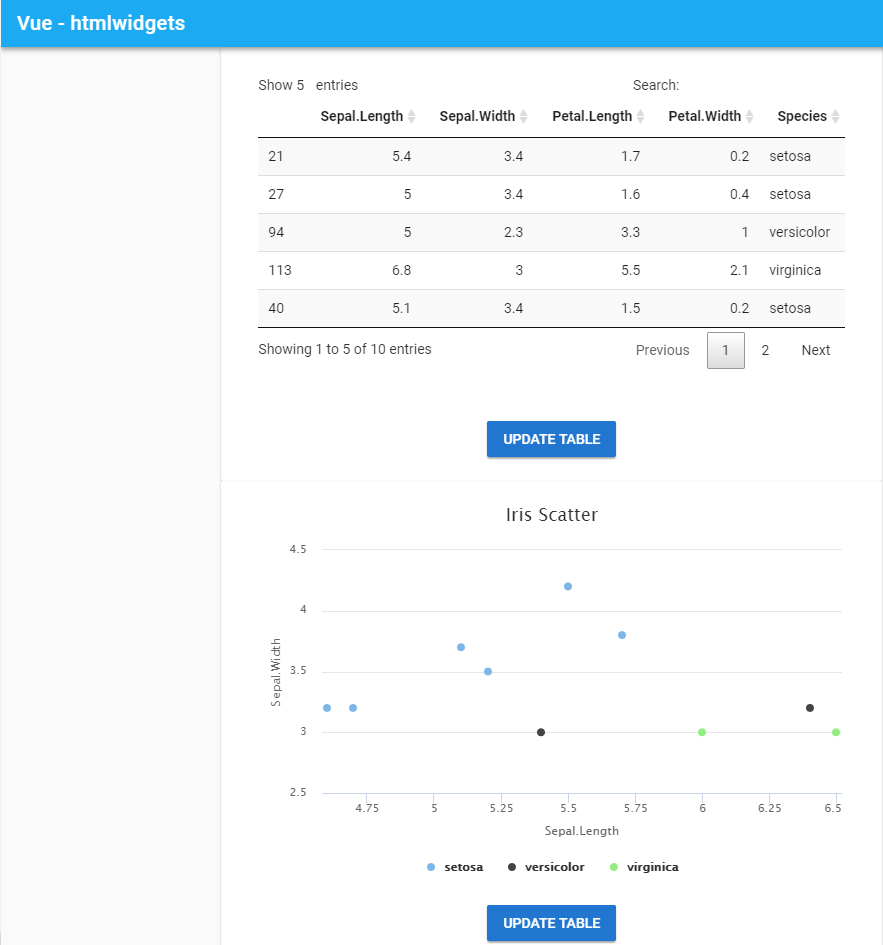
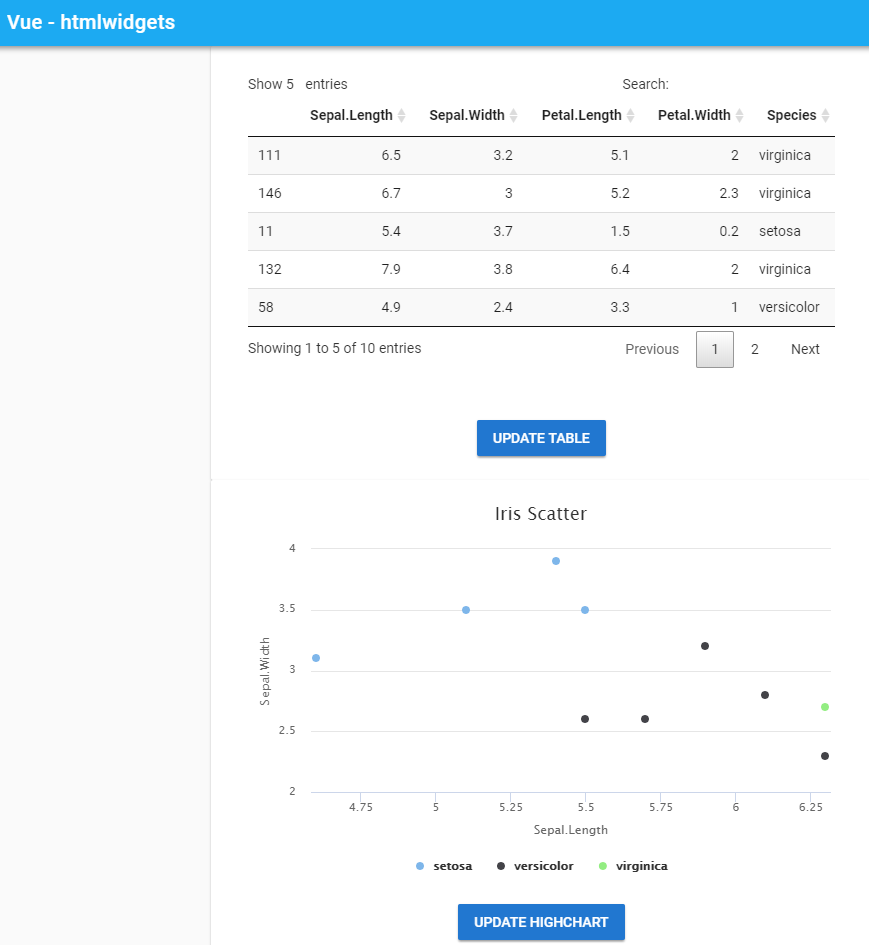
up vue-native, screenshots

diff --git a/vue-native/src/components/DataTable.vue b/vue-native/src/components/DataTable.vue
@@ -1,47 +1,39 @@
 <template>
   <v-data-table
     :headers="headers"
-    :items="desserts"
-    hide-actions
+    :items="visData"
     class="elevation-1"
   >
     <template slot="items" slot-scope="props">
-      <td>{{ props.item.name }}</td>
-      <td class="text-xs-right">{{ props.item.calories }}</td>
-      <td class="text-xs-right">{{ props.item.fat }}</td>
-      <td class="text-xs-right">{{ props.item.carbs }}</td>
-      <td class="text-xs-right">{{ props.item.protein }}</td>
-      <td class="text-xs-right">{{ props.item.iron }}</td>
       <td class="text-xs-right">{{ props.item.SepalLength }}</td>
+      <td class="text-xs-right">{{ props.item.SepalWidth }}</td>
+      <td class="text-xs-right">{{ props.item.PetalLength }}</td>
+      <td class="text-xs-right">{{ props.item.PetalWidth }}</td>
+      <td class="text-xs-right">{{ props.item.Species }}</td>
+    </template>
+    <template slot="pageText" slot-scope="props">
+        Lignes {{ props.pageStart }} - {{ props.pageStop }} of {{ props.itemsLength }}
     </template>
   </v-data-table>
 </template>
 
 <script>
-  export default {
+export default {
     data () {
-      return {
-        headers: [
-          { text: 'Dessert', value: 'name'},
-          { text: 'Calories', value: 'calories' },
-          { text: 'Fat (g)', value: 'fat' },
-          { text: 'Carbs (g)', value: 'carbs' },
-          { text: 'Protein (g)', value: 'protein' },
-          { text: 'Iron (%)', value: 'iron' },
-          { text: 'Sepal Length', value: 'SepalLength'}
-        ],
-        desserts: [
-          {
-            name: 'Frozen Yogurt',
-            calories: 159,
-            fat: 6.0,
-            carbs: 24,
-            protein: 4.0,
-            iron: '1%',
-            SepalLength: 7.4
-          }
-        ]
-      }
+        return {
+            headers: [
+                { text: 'Sepal Length', value: 'SepalLength'},
+                { text: 'Sepal Width', value: 'SepalWidth'},
+                { text: 'Petal Length', value: 'PetalLength'},
+                { text: 'Petal Width', value: 'PetalWidth'},
+                { text: 'Species', value: 'Species'}
+            ]
+        }
+    },
+    computed: {
+        visData() {
+            return this.$store.getters['visData']
+        }
     }
-  }
+}
 </script>

diff --git a/vue-native/src/App.vue b/vue-native/src/App.vue
@@ -5,42 +5,74 @@
           Vue - native
       </v-toolbar-title>
     </v-toolbar>
-    <v-content>
-      <p>{{ visData }}</p>
-      <v-btn @click="vis">update</v-btn>
-      <app-data-table></app-data-table>
-      <app-plotly></app-plotly>
+    <v-content>      
+      <div v-if="isLoading" class="centered">
+          <v-progress-circular 
+            indeterminate color="info"
+            :size="100"
+            :width="10"
+          ></v-progress-circular>
+      </div>
+      <div v-else>
+        <v-btn @click="update">update data</v-btn>
+        <v-container fluid>
+          <v-layout row wrap>
+            <v-flex xs12 sm12 md6>
+              <div style="display: inline-block;">
+                <app-data-table></app-data-table>
+              </div>            
+            </v-flex>
+            <v-flex xs12 sm12 md6>
+              <div style="display: inline-block;">
+                <app-highchart></app-highchart>
+              </div>            
+            </v-flex>
+            <v-flex xs12 sm12 md6>
+              <div style="display: inline-block;">
+                <app-plotly></app-plotly>
+              </div>            
+            </v-flex>
+          </v-layout>
+        </v-container>      
+      </div>
     </v-content>    
   </v-app>
 </template>
 
 <script>
 import DataTable from './components/DataTable.vue'
+import Highchart from './components/HighChart.vue'
 import Plotly from './components/Plotly.vue'
 
 export default {
   components: {
     appDataTable: DataTable,
+    appHighchart: Highchart,
     appPlotly: Plotly
   },
   computed: {
     visData() {
       return this.$store.getters['visData']
+    },
+    isLoading() {
+      return this.$store.getters['isLoading']
     }
   },
   methods: {
-    vis() {
+    update() {
       this.$store.commit('updateVisData')
-      console.log(this.visData)
     }
   },
   created () {
     this.$store.dispatch('getRawData')
   }
-
 }
 </script>
 
-<style>
-
+<style scoped>
+.centered {
+  position: fixed; /* or absolute */
+  top: 50%;
+  left: 50%;
+}
 </style>

diff --git a/vue-native/src/components/Highchart.vue b/vue-native/src/components/Highchart.vue
@@ -1,0 +1,61 @@
+<template>
+    <div>
+        <highcharts :options="chartOptions"></highcharts>        
+    </div>    
+</template>
+<script>
+
+import { Chart } from 'highcharts-vue'
+
+export default {
+    components: {
+        highcharts: Chart
+    },
+    computed: {
+        visData() {
+            return this.$store.getters['visData']
+        },
+        chartOptions() {
+            return {
+                title: {
+                    text: null
+                },
+                xAxis: {
+                    title: {
+                        text: 'Sepal Length'
+                    }
+                },
+                yAxis: {
+                    title: {
+                        text: 'Sepal Width'
+                    }
+                },
+                series: [
+                    {
+                        name: 'setosa',
+                        type: 'scatter',
+                        data: this.filterData('setosa')
+                    },
+                    {
+                        name: 'versicolor',
+                        type: 'scatter',
+                        data: this.filterData('versicolor')
+                    },
+                    {
+                        name: 'virginica',
+                        type: 'scatter',
+                        data: this.filterData('virginica')
+                    }
+                ]
+            }
+        }
+    },
+    methods: {
+        filterData(species) {
+            return this.visData
+                        .filter(x => x['Species'] === species)
+                        .map(x => [x['SepalLength'], x['SepalWidth']])
+        }
+    }
+}
+</script>

diff --git a/vue-native/src/store.js b/vue-native/src/store.js
@@ -9,7 +9,8 @@ Vue.use(Vuex)
 export default new Vuex.Store({
     state: {
         rawData: [],
-        visData: []
+        visData: [],
+        isLoading: false
     },
     getters: {
         rawData (state) {
@@ -17,6 +18,9 @@ export default new Vuex.Store({
         },
         visData (state) {
             return state.visData
+        },
+        isLoading (state) {
+            return state.isLoading
         }
     },
     mutations: {
@@ -25,16 +29,24 @@ export default new Vuex.Store({
         },
         updateVisData (state) {
             state.visData = state.rawData.sort(() => .5 - Math.random()).slice(0, 10)
+        },
+        toggleIsLoading (state) {
+            state.isLoading = !state.isLoading
         }
     },
     actions: {
         getRawData ({ commit }) {
+            commit('toggleIsLoading')
+
             axios.post('/hdata')
                 .then(res => {
                     commit('getRawData', res.data)
+                    commit('updateVisData')
+                    commit('toggleIsLoading')
                 })
                 .catch(err => {
                     console.log('error')
+                    commit('toggleIsLoading')
                     console.log(err)
                 })
         }

diff --git a/vue-native/src/components/Plotly.vue b/vue-native/src/components/Plotly.vue
@@ -1,5 +1,5 @@
 <template>
-    <vue-plotly :data="data" :layout="layout" :options="options"/>
+    <vue-plotly :data="plotlyData" :layout="layout" :options="options"/>
 </template>
 
 <script>
@@ -36,14 +36,15 @@ export default {
       visData() {
           return this.$store.getters['visData']
       },
-      data() {
+      plotlyData() {
           return this.getData()
       }
   },
   methods: {
     filterData(col, species) {
-        return this.visData.filter(x => x['Species'] === species)
-            .map(x => x[col])
+        return this.visData
+                    .filter(x => x['Species'] === species)
+                    .map(x => x[col])
     },
     getData() {
         return [

diff --git a/vue-htmlwidgets/src/components/Highchart.vue b/vue-htmlwidgets/src/components/Highchart.vue
@@ -15,7 +15,7 @@
                             <v-btn 
                                 @click="update"
                                 color="primary"
-                            >update table</v-btn>
+                            >update highchart</v-btn>
                             <div v-if="isLoading">
                                 <v-progress-circular indeterminate color="info"></v-progress-circular>
                             </div>                        

diff --git a/vue-htmlwidgets/src/components/Plotly.vue b/vue-htmlwidgets/src/components/Plotly.vue
@@ -15,7 +15,7 @@
                             <v-btn 
                                 @click="update"
                                 color="primary"
-                            >update table</v-btn>
+                            >update plotly</v-btn>
                             <div v-if="isLoading">
                                 <v-progress-circular indeterminate color="info"></v-progress-circular>
                             </div>                        
